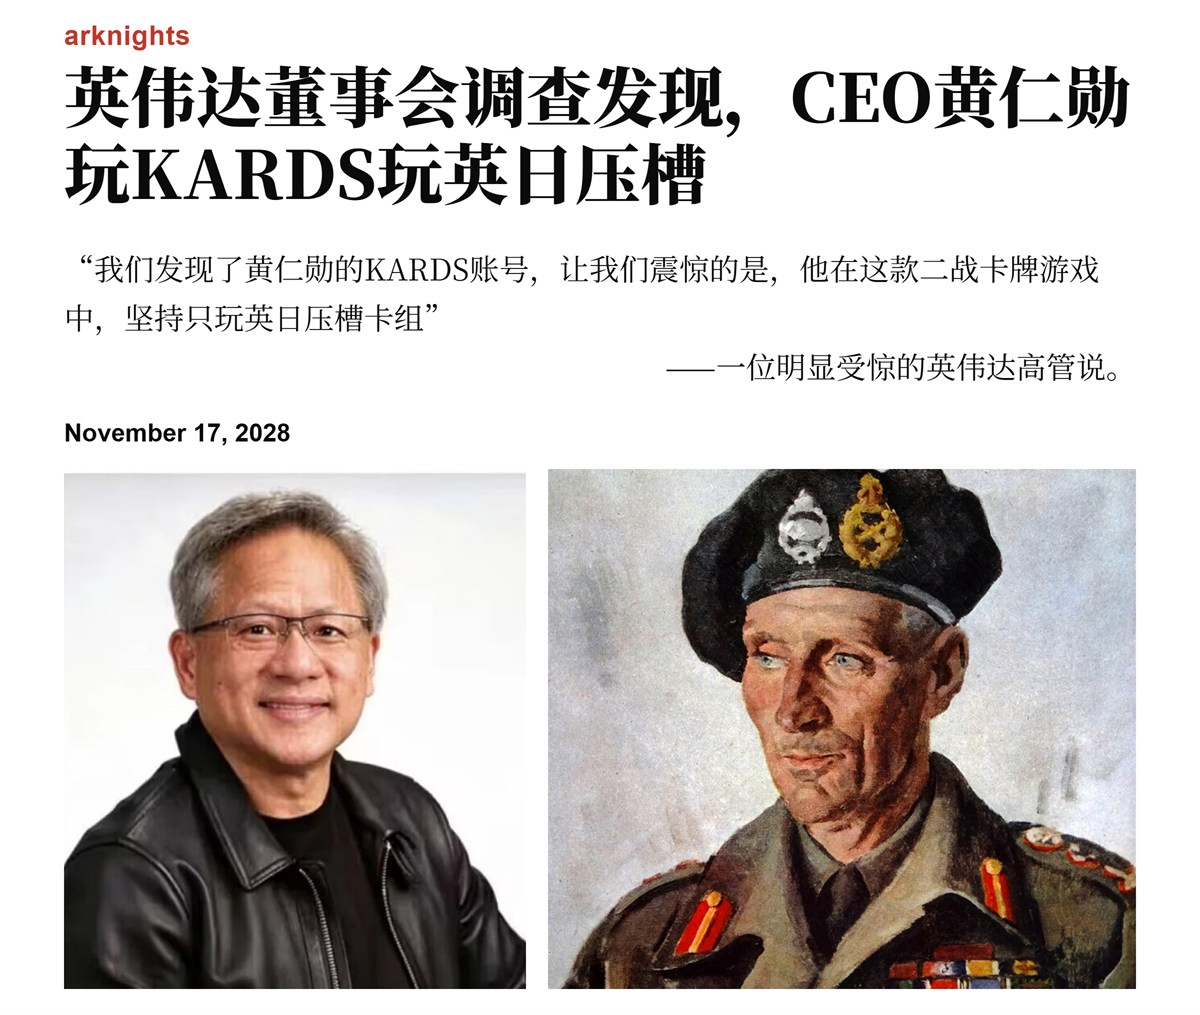
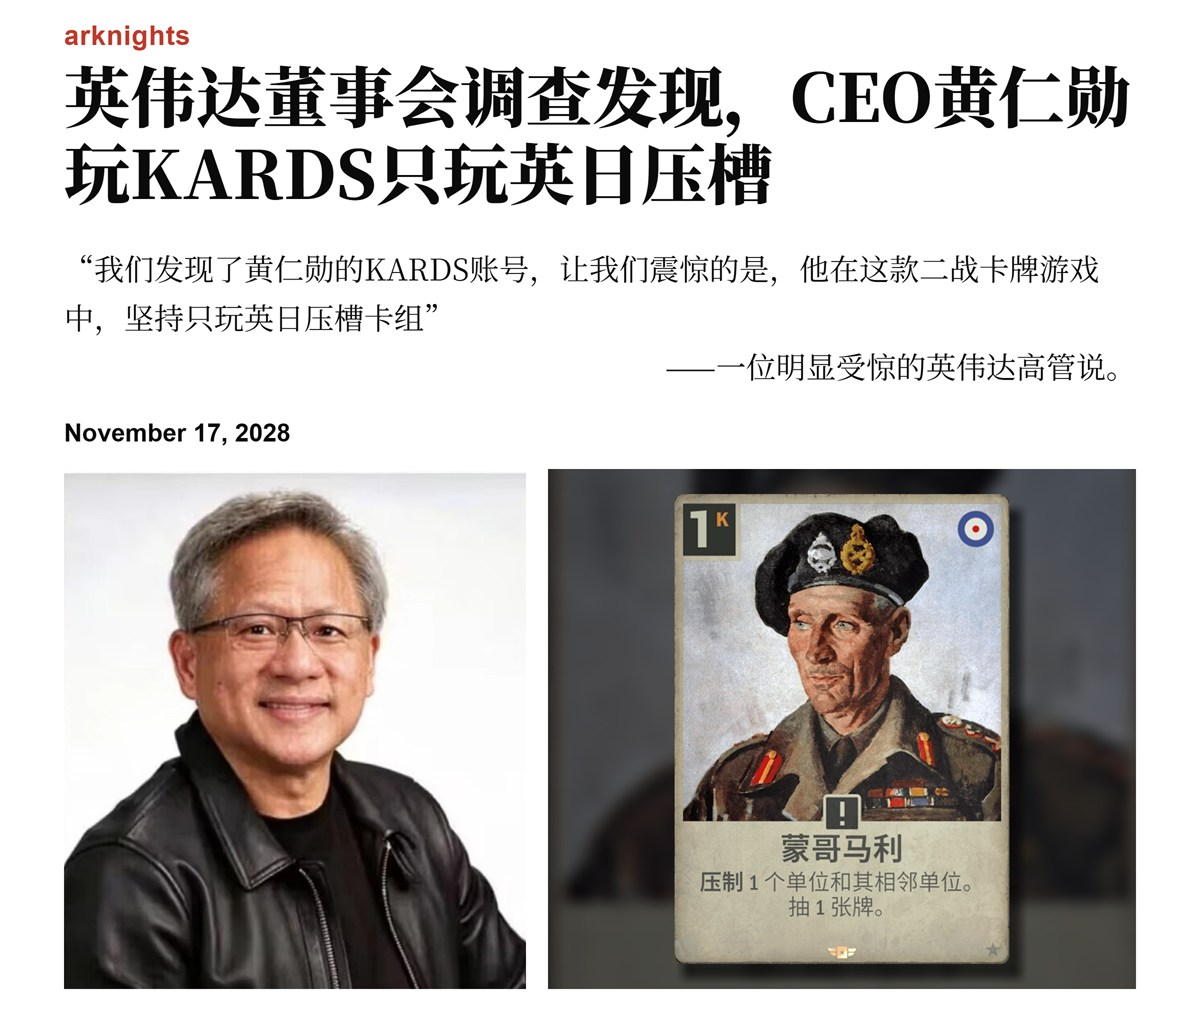
KARDS 默认改用带卡框的完整卡面，文案改成「只玩」

Changed region(s): [[0.4317, 0.4581, 0.9558, 0.9773], [0.3083, 0.1222, 0.6475, 0.2138]]

diff --git a/assets/presets.js b/assets/presets.js
@@ -17,7 +17,7 @@ window.PRESETS = [
   },
   {
     label: 'arknights',
-    headline: '英伟达董事会调查发现，CEO黄仁勋玩KARDS玩英日压槽',
+    headline: '英伟达董事会调查发现，CEO黄仁勋玩KARDS只玩英日压槽',
     quote: '“我们发现了黄仁勋的KARDS账号，让我们震惊的是，他在这款二战卡牌游戏中，坚持只玩英日压槽卡组”',
     source: '——一位明显受惊的英伟达高管说。',
     date: 'November 17, 2028'

diff --git a/assets/app.js b/assets/app.js
@@ -8,7 +8,7 @@
 
   var DEFAULTS = {
     label: 'arknights',
-    headline: '英伟达董事会调查发现，CEO黄仁勋玩KARDS玩英日压槽',
+    headline: '英伟达董事会调查发现，CEO黄仁勋玩KARDS只玩英日压槽',
     quote: '“我们发现了黄仁勋的KARDS账号，让我们震惊的是，他在这款二战卡牌游戏中，坚持只玩英日压槽卡组”',
     source: '——一位明显受惊的英伟达高管说。',
     date: 'November 17, 2028',

diff --git a/CREDITS.md b/CREDITS.md
@@ -46,12 +46,13 @@
 
 ## 示例配图（assets/img/demo-kards.jpg）
 
-- 内容：**KARDS**（1939 Games 的二战卡牌游戏）里的「蒙哥马利 / Monty」卡牌原画
-- 原图：KARDS Wiki 的 `File:T monty.png`（1024×1024）
-- 出处：https://kards.fandom.com/wiki/Monty
-- 版权：卡牌美术归 **1939 Games** 所有，不属于本项目的开源部分
-- 改动：等比缩放到 1100px 宽，转 JPEG
-- 用途：只作为「右图」位置的默认示例，让页面打开就有东西看。**商用或公开发布请换成你自己的截图或获授权素材**
+- 内容：**KARDS**（1939 Games 的二战卡牌游戏）里的「蒙哥马利 / Monty」完整卡面（含 1K 费用角标、英国阵营标、卡名和卡牌效果）
+- 原图：Biligame KARDS wiki 的卡牌图（500×702 PNG）
+- 出处：https://wiki.biligame.com/kards/蒙哥马利
+- 卡面原画（无卡框版）：https://kards.fandom.com/wiki/Monty
+- 版权：卡牌美术与界面归 **1939 Games** 所有，不属于本项目的开源部分
+- 改动：卡面放大到 940px 高，居中合成到 1200×1040 的深色背景上（背景是卡面本身的模糊放大），转 JPEG
+- 用途：只作为「右图」位置的默认示例。**商用或公开发布请换成你自己的截图或获授权素材**
 
 ## 字体
 
